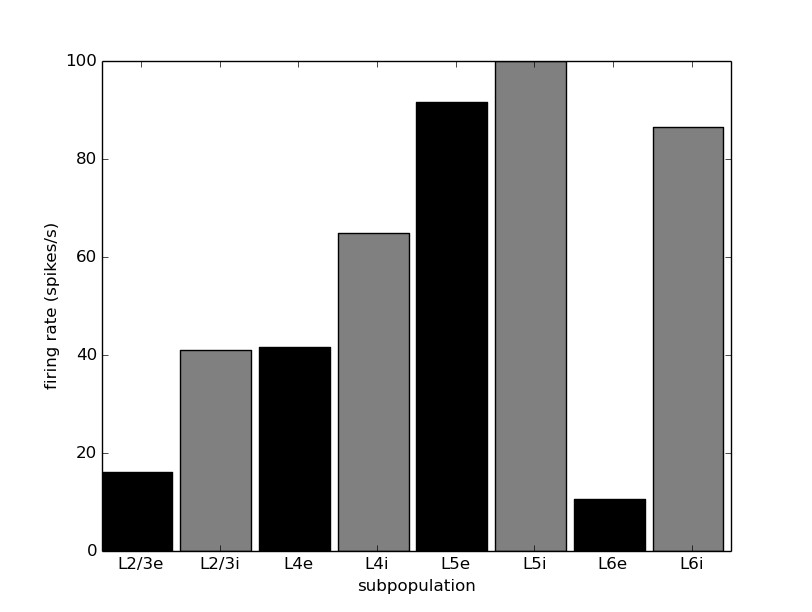
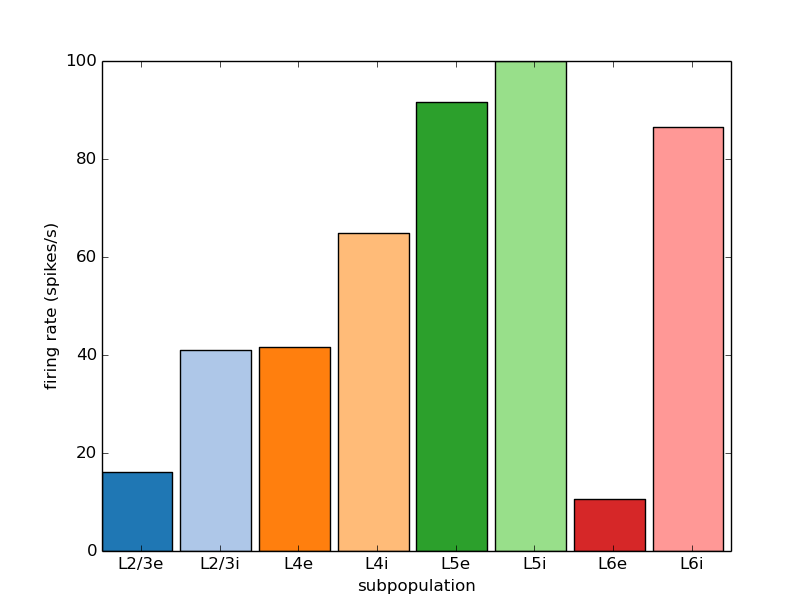
Some cleanups

diff --git a/potjans_2014/spike_analysis.py b/potjans_2014/spike_analysis.py
@@ -1,23 +1,3 @@
-# -*- coding: utf-8 -*-
-#
-# spike_analysis.py
-#
-# This file is part of NEST.
-#
-# Copyright (C) 2004 The NEST Initiative
-#
-# NEST is free software: you can redistribute it and/or modify
-# it under the terms of the GNU General Public License as published by
-# the Free Software Foundation, either version 2 of the License, or
-# (at your option) any later version.
-#
-# NEST is distributed in the hope that it will be useful,
-# but WITHOUT ANY WARRANTY; without even the implied warranty of
-# MERCHANTABILITY or FITNESS FOR A PARTICULAR PURPOSE.  See the
-# GNU General Public License for more details.
-#
-# You should have received a copy of the GNU General Public License
-# along with NEST.  If not, see <http://www.gnu.org/licenses/>.
 
 # Merges spike files, produces raster plots, calculates and plots firing rates
 
@@ -145,7 +125,7 @@ for i in range(len(tableau20)):
   r, g, b = tableau20[i]
   tableau20[i] = (r / 255., g / 255., b / 255.)
 
-clrs = ['0','0.5','0','0.5','0','0.5','0','0.5']
+clrs = tableau20
 plt.ion()
 
 # raster plot
